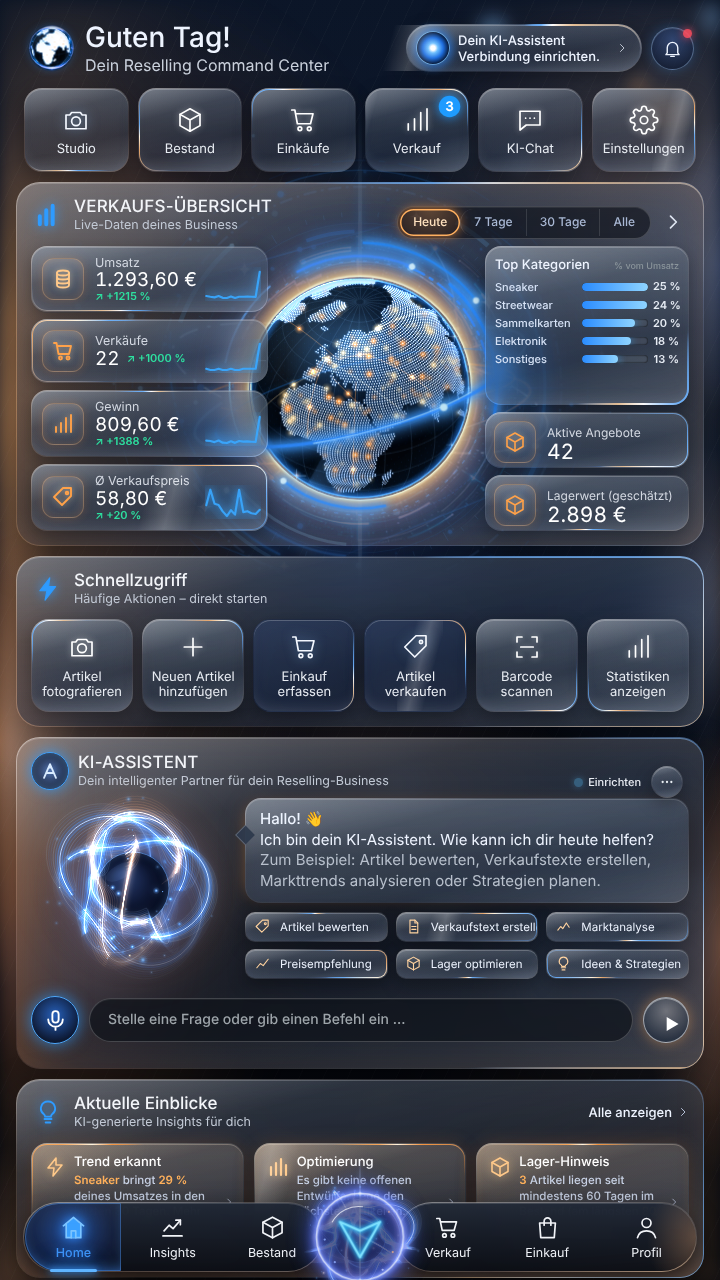
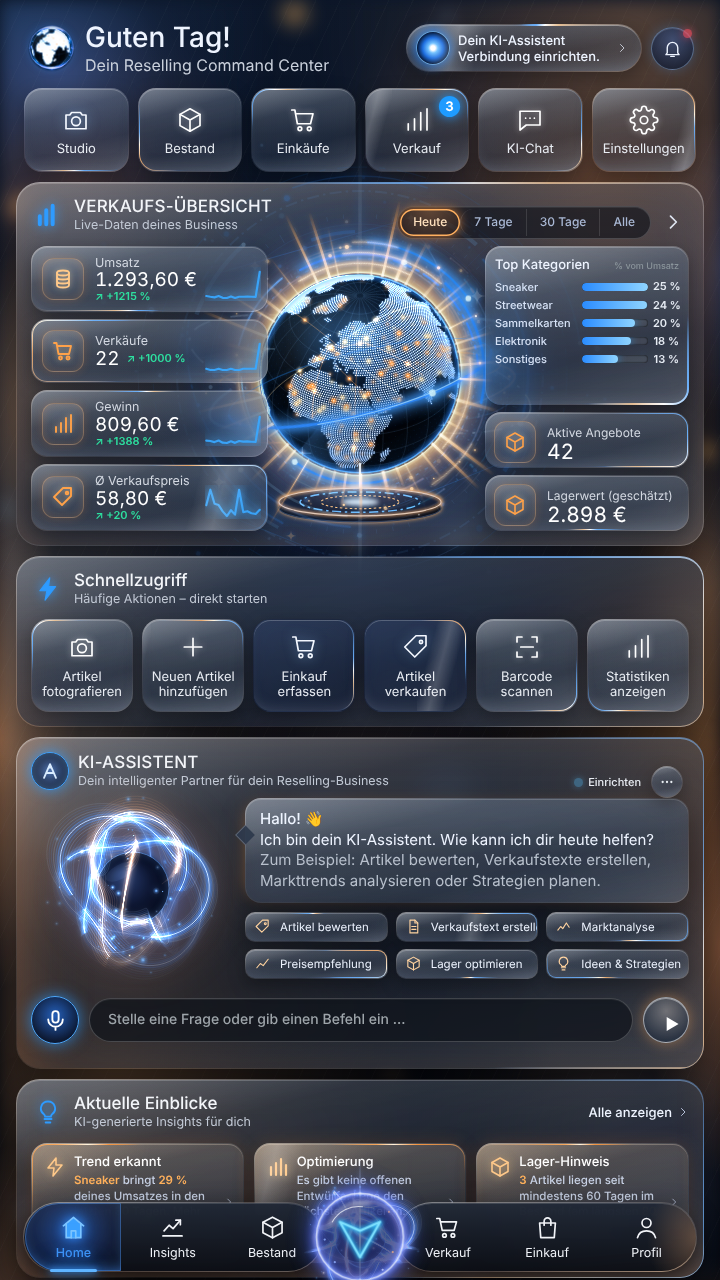
Globus: goldenes Kraftfeld und leuchtender Sockel
- Goldene Strahlen pulsieren aus dem Globus, Strahlenkranz dreht langsam
- Gegenläufige goldene Schimmerbögen, nach außen treibende Goldfunken
- Sockel mit Ringen und Lichtstrahl unter dem Globus

Claude-Session: https://claude.ai/code/session_0194bcZ5PbUBuV3hzmwdGD96

diff --git a/public/fx.js b/public/fx.js
@@ -420,6 +420,59 @@
     wrap.appendChild(svg);
   }
 
+  /* Goldenes Kraftfeld um den Globus: Strahlen, Schimmerbögen, Funken, Sockel mit Lichtstrahl */
+  function setupGlobeGold() {
+    var wrap = doc.querySelector('.v15-globe-wrap'); if (!wrap || wrap.querySelector('.cc-globe-gold')) return;
+    var C = 43, Y = 50, R = 33.7;
+    var S = svgEl('svg', { viewBox: '0 0 100 100', class: 'cc-globe-gold', 'aria-hidden': 'true' });
+    var d = svgEl('defs', {}); S.appendChild(d);
+    function A(tag, at, p) { var e = svgEl(tag, at); (p || S).appendChild(e); return e; }
+    var rg = svgEl('linearGradient', { id: 'ccRay', x1: '0', y1: '0', x2: '1', y2: '0' });
+    [['0', '#fff6e0', '1'], ['.3', '#ffc070', '.8'], ['1', '#ff9a40', '0']].forEach(function (q) { rg.appendChild(svgEl('stop', { offset: q[0], 'stop-color': q[1], 'stop-opacity': q[2] })); });
+    d.appendChild(rg);
+    var bl = svgEl('filter', { id: 'ccGoldBlur', x: '-50%', y: '-50%', width: '200%', height: '200%' }); bl.appendChild(svgEl('feGaussianBlur', { stdDeviation: '.6' })); d.appendChild(bl);
+    var bm = svgEl('linearGradient', { id: 'ccBeamG', x1: '0', y1: '0', x2: '0', y2: '1' });
+    [['0', '#bfe3ff', '0'], ['.5', '#9fd2ff', '.55'], ['1', '#e6f4ff', '.95']].forEach(function (q) { bm.appendChild(svgEl('stop', { offset: q[0], 'stop-color': q[1], 'stop-opacity': q[2] })); });
+    d.appendChild(bm);
+    // Sockel mit Lichtstrahl
+    var py = Y + R + 9;
+    A('rect', { x: C - 3.5, y: Y + R - 2, width: 7, height: py - Y - R + 2, fill: 'url(#ccBeamG)', class: 'cc-beam', filter: 'url(#ccGoldBlur)' });
+    A('rect', { x: C - .35, y: Y + R - 4, width: .7, height: py - Y - R + 4, fill: '#eef7ff', opacity: '.9' });
+    A('ellipse', { cx: C, cy: py + 2, rx: 27, ry: 4.6, fill: '#05070c', stroke: '#2a3448', 'stroke-width': '.4' });
+    A('ellipse', { cx: C, cy: py, rx: 27, ry: 4.6, fill: '#0c1220', stroke: '#c9d6ea', 'stroke-width': '.35' });
+    A('ellipse', { cx: C, cy: py, rx: 27, ry: 4.6, fill: 'none', stroke: '#ffb060', 'stroke-width': '1.2', opacity: '.55', filter: 'url(#ccGoldBlur)' });
+    A('ellipse', { cx: C, cy: py, rx: 20, ry: 3.4, fill: 'none', stroke: '#5fb4ff', 'stroke-width': '.5', 'stroke-dasharray': '3 1.2 .8 1.2', class: 'cc-ped-dash' });
+    A('ellipse', { cx: C, cy: py, rx: 13, ry: 2.2, fill: 'none', stroke: '#ffc070', 'stroke-width': '.35', 'stroke-dasharray': '.8 .8', class: 'cc-ped-dash cc-ped-rev' });
+    A('ellipse', { cx: C, cy: py, rx: 6, ry: 1.1, fill: '#d8ecff', opacity: '.8', filter: 'url(#ccGoldBlur)', class: 'cc-field-halo' });
+    // Strahlenkranz (dreht langsam)
+    var rays = A('g', { class: 'cc-gold-rays' });
+    var seed = 13; function rnd() { seed = (seed * 9301 + 49297) % 233280; return seed / 233280; }
+    for (var i = 0; i < 44; i++) {
+      var a = i / 44 * 360 + rnd() * 6, len = 8 + rnd() * 16, w = .45 + rnd() * .7;
+      var g = A('g', { transform: 'rotate(' + a.toFixed(1) + ' ' + C + ' ' + Y + ')' }, rays);
+      A('rect', { x: C + R - .5, y: Y - w / 2, width: len, height: w, fill: 'url(#ccRay)', class: 'cc-ray cc-ray-' + (i % 5) }, g);
+    }
+    // Schimmerbögen (gravitationsfeldartig, gegenläufig)
+    function arc(r, a0, a1) { var p0 = a0 * Math.PI / 180, p1 = a1 * Math.PI / 180; return 'M' + (C + Math.cos(p0) * r).toFixed(2) + ' ' + (Y + Math.sin(p0) * r).toFixed(2) + ' A' + r + ' ' + r + ' 0 0 1 ' + (C + Math.cos(p1) * r).toFixed(2) + ' ' + (Y + Math.sin(p1) * r).toFixed(2); }
+    var f1 = A('g', { class: 'cc-gold-spin' }), f2 = A('g', { class: 'cc-gold-spin cc-gold-rev' });
+    [[37, 200, 260, .7], [37, 20, 70, .55], [40.5, 110, 150, .5], [40.5, 290, 340, .6], [44, 230, 250, .4], [44, 60, 85, .35]].forEach(function (q, k) {
+      A('path', { d: arc(q[0], q[1], q[2]), fill: 'none', stroke: '#ffc070', 'stroke-width': q[3], 'stroke-linecap': 'round', opacity: '.85', filter: 'url(#ccGoldBlur)' }, k % 2 ? f2 : f1);
+      A('path', { d: arc(q[0], q[1], q[2]), fill: 'none', stroke: '#fff0d0', 'stroke-width': q[3] * .35, 'stroke-linecap': 'round' }, k % 2 ? f2 : f1);
+    });
+    // Goldene Funken, die nach außen treiben
+    var sp = A('g', {});
+    for (var j = 0; j < 36; j++) {
+      var an = rnd() * 6.283, r0 = R + 1 + rnd() * 3, r1 = R + 9 + rnd() * 12, dur = (3 + rnd() * 4).toFixed(1) + 's', del = (-rnd() * 6).toFixed(1) + 's';
+      var c = A('circle', { r: (.25 + rnd() * .45).toFixed(2), fill: rnd() < .8 ? '#ffd08a' : '#ffffff', class: 'cc-gold-spark' }, sp);
+      if (!reduce) {
+        c.appendChild(svgEl('animate', { attributeName: 'cx', values: (C + Math.cos(an) * r0).toFixed(2) + ';' + (C + Math.cos(an) * r1).toFixed(2), dur: dur, begin: del, repeatCount: 'indefinite' }));
+        c.appendChild(svgEl('animate', { attributeName: 'cy', values: (Y + Math.sin(an) * r0).toFixed(2) + ';' + (Y + Math.sin(an) * r1).toFixed(2), dur: dur, begin: del, repeatCount: 'indefinite' }));
+        c.appendChild(svgEl('animate', { attributeName: 'opacity', values: '0;1;0', dur: dur, begin: del, repeatCount: 'indefinite' }));
+      } else { c.setAttribute('cx', (C + Math.cos(an) * r1 * .8).toFixed(2)); c.setAttribute('cy', (Y + Math.sin(an) * r1 * .8).toFixed(2)); }
+    }
+    wrap.appendChild(S);
+  }
+
   function setupAvatar() {
     var av = doc.querySelector('.v11-avatar'); if (!av || av.parentNode.querySelector('.cc-avatar-earth')) return;
     var box = doc.createElement('span'); box.className = 'cc-avatar'; box.setAttribute('aria-hidden', 'true');
@@ -865,7 +918,7 @@
   function drawStatic() { for (var i = 0; i < earths.length; i++) { if (earths[i].resize()) earths[i].draw(0); } for (var j = 0; j < plasmas.length; j++) { if (plasmas[j].resize()) plasmas[j].draw(2); } }
 
   function init() {
-    setupGlobe(); setupAvatar(); setupRobot(); setupNavCore(); setupNavTap(); setupPress(); setupFills(); setupGlints(); if (window.MutationObserver) { var ins = doc.getElementById('v11-insights'); if (ins) new MutationObserver(setupGlints).observe(ins, { childList: true }); var ci = doc.getElementById('ccChatIns'); if (ci) new MutationObserver(setupGlints).observe(ci, { childList: true }); } setupEmbers(); setupCounters();
+    setupGlobe(); setupGlobeGold(); setupAvatar(); setupRobot(); setupNavCore(); setupNavTap(); setupPress(); setupFills(); setupGlints(); if (window.MutationObserver) { var ins = doc.getElementById('v11-insights'); if (ins) new MutationObserver(setupGlints).observe(ins, { childList: true }); var ci = doc.getElementById('ccChatIns'); if (ci) new MutationObserver(setupGlints).observe(ci, { childList: true }); } setupEmbers(); setupCounters();
     doc.documentElement.classList.add('cc-fx');
     if (reduce) { drawStatic(); window.addEventListener('resize', drawStatic); var nh = doc.getElementById('navHome'); if (nh) nh.addEventListener('click', function () { setTimeout(drawStatic, 60); }); }
     else requestAnimationFrame(frame);

diff --git a/public/theme.css b/public/theme.css
@@ -805,3 +805,18 @@ body:has(#home:not(.hidden)) .v11-ai .rv-crafted-chat #homeAiSend, .cc-send { bo
 .v11-bell > .cc-sheen, .v11-bell > .cc-glint { display:none !important; }
 .v15-globe-wrap::before { z-index:1 !important; mix-blend-mode:screen; width:104% !important; height:104% !important;
   background:radial-gradient(circle, transparent 30%, rgba(255,200,140,.45) 32.5%, rgba(255,160,80,.30) 36%, rgba(255,130,50,.14) 43%, rgba(70,140,255,.12) 52%, transparent 64%) !important; }
+/* Goldenes Kraftfeld um den Globus */
+.cc-globe-gold { position:absolute; inset:0; width:100%; height:100%; overflow:visible; pointer-events:none; z-index:3; mix-blend-mode:screen; }
+.cc-gold-rays, .cc-gold-spin { transform-box:view-box; transform-origin:43px 50px; }
+.cc-gold-rays { animation:cc-spin 90s linear infinite; }
+.cc-gold-spin { animation:cc-spin 26s linear infinite; }
+.cc-gold-rev { animation-direction:reverse; animation-duration:34s; }
+.cc-ray { animation:cc-ray 3.4s ease-in-out infinite; transform-box:fill-box; transform-origin:left center; }
+.cc-ray-1 { animation-delay:-.7s; } .cc-ray-2 { animation-delay:-1.4s; } .cc-ray-3 { animation-delay:-2.1s; } .cc-ray-4 { animation-delay:-2.8s; }
+@keyframes cc-ray { 0%,100% { opacity:.25; transform:scaleX(.6); } 50% { opacity:1; transform:scaleX(1.1); } }
+.cc-gold-spark { filter:drop-shadow(0 0 .6px #ffb060); }
+@media (prefers-reduced-motion: reduce) { .cc-gold-rays, .cc-gold-spin, .cc-ray { animation:none; } }
+.v15-globe-wrap { width:300px !important; height:300px !important; margin-top:-14px; }
+@media(min-width:1000px) { .v15-globe-wrap { width:400px !important; height:400px !important; } }
+.cc-globe-gold { filter:drop-shadow(0 0 2px rgba(255,180,90,.9)); }
+@keyframes cc-ray { 0%,100% { opacity:.45; transform:scaleX(.65); } 50% { opacity:1; transform:scaleX(1.15); } }

diff --git a/public/sw.js b/public/sw.js
@@ -1,4 +1,4 @@
-const CACHE='rv-studio-v19-blueglass-10';
+const CACHE='rv-studio-v19-blueglass-11';
 const FILES=['/','/index.html','/app.css','/dashboard.css','/fx.css','/ref.css','/theme.css','/app.js','/dashboard.js','/fx.js',
   '/vendor/jszip.min.js','/fonts/command-sans-regular.otf','/fonts/command-sans-bold.otf',
   '/rv-logo.jpg','/rv-ai-mascot.png','/rv-robot-premium.png','/rv-white.png',
